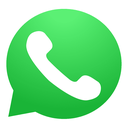
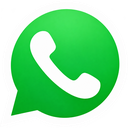
Prévia: novo ícone do WhatsApp e rodapé com ícone do Instagram e @ dos perfis
- Botão flutuante com a imagem do WhatsApp enviada pelo Léo
- Rodapé: "Instagram Lemidi/Leonardo" viram ícone + @lemidimkt e @leonardosilveira_ (todas as páginas)
- Home: sai o "Voltar ao topo"

Claude-Session: https://claude.ai/code/session_01KM6DYd1fGELiNUCgDnHkuW

diff --git a/site/blog/como-escolher-uma-agencia-de-marketing/index.html b/site/blog/como-escolher-uma-agencia-de-marketing/index.html
@@ -634,7 +634,7 @@ document.addEventListener("click",function(e){var a=e.target.closest&&e.target.c
 
 </main>
 <footer id="fim" class="bfoot">
-<div class="note"><a class="flogo" href="/" aria-label="Lemidi, ir para a home"><img src="/assets/img/3871e12d3f6969.png" alt="Lemidi"></a><address class="mono">Rua Mossoró, 332, sala 03 · Londrina, PR</address><div class="nlinks"><a class="mono" style="color:var(--ink);text-decoration:none" href="https://www.instagram.com/lemidimkt/" target="_blank" rel="noopener">Instagram Lemidi</a><a class="mono" style="color:var(--ink);text-decoration:none" href="https://www.instagram.com/leonardosilveira_/" target="_blank" rel="noopener">Instagram Leonardo</a><a class="mono" style="color:var(--ink);text-decoration:none" href="https://wa.me/554384458007?text=Ol%C3%A1%20vim%20pelo%20site%20e%20gostaria%20de%20conhecer%20a%20Lemidi." target="_blank" rel="noopener">Conhecer a Lemidi</a></div></div>
+<div class="note"><a class="flogo" href="/" aria-label="Lemidi, ir para a home"><img src="/assets/img/3871e12d3f6969.png" alt="Lemidi"></a><address class="mono">Rua Mossoró, 332, sala 03 · Londrina, PR</address><div class="nlinks"><a class="mono" style="color:var(--ink);text-decoration:none;display:inline-flex;align-items:center;gap:8px;text-transform:none" href="https://www.instagram.com/lemidimkt/" target="_blank" rel="noopener" aria-label="Instagram da Lemidi (@lemidimkt)"><i aria-hidden="true" style="display:inline-block;width:16px;height:16px;flex:0 0 16px;background:currentColor;-webkit-mask:url(/assets/img/instagram.png) center/contain no-repeat;mask:url(/assets/img/instagram.png) center/contain no-repeat"></i>@lemidimkt</a><a class="mono" style="color:var(--ink);text-decoration:none;display:inline-flex;align-items:center;gap:8px;text-transform:none" href="https://www.instagram.com/leonardosilveira_/" target="_blank" rel="noopener" aria-label="Instagram do Leonardo (@leonardosilveira_)"><i aria-hidden="true" style="display:inline-block;width:16px;height:16px;flex:0 0 16px;background:currentColor;-webkit-mask:url(/assets/img/instagram.png) center/contain no-repeat;mask:url(/assets/img/instagram.png) center/contain no-repeat"></i>@leonardosilveira_</a><a class="mono" style="color:var(--ink);text-decoration:none" href="https://wa.me/554384458007?text=Ol%C3%A1%20vim%20pelo%20site%20e%20gostaria%20de%20conhecer%20a%20Lemidi." target="_blank" rel="noopener">Conhecer a Lemidi</a></div></div>
 <p class="legal mono">LEMIDI INTELIGÊNCIA DIGITAL LTDA · CNPJ 22.135.748/0001-34 · <a href="/politica-de-privacidade/">Política de privacidade</a></p></footer>
 <script>(function(){
 var cv = document.getElementById('preCv'), img = document.getElementById('preImg'); if (!cv || !img) return;

diff --git a/site/blog/como-reduzir-faltas-de-pacientes/index.html b/site/blog/como-reduzir-faltas-de-pacientes/index.html
@@ -641,7 +641,7 @@ document.addEventListener("click",function(e){var a=e.target.closest&&e.target.c
 
 </main>
 <footer id="fim" class="bfoot">
-<div class="note"><a class="flogo" href="/" aria-label="Lemidi, ir para a home"><img src="/assets/img/3871e12d3f6969.png" alt="Lemidi"></a><address class="mono">Rua Mossoró, 332, sala 03 · Londrina, PR</address><div class="nlinks"><a class="mono" style="color:var(--ink);text-decoration:none" href="https://www.instagram.com/lemidimkt/" target="_blank" rel="noopener">Instagram Lemidi</a><a class="mono" style="color:var(--ink);text-decoration:none" href="https://www.instagram.com/leonardosilveira_/" target="_blank" rel="noopener">Instagram Leonardo</a><a class="mono" style="color:var(--ink);text-decoration:none" href="https://wa.me/554384458007?text=Ol%C3%A1%20vim%20pelo%20site%20e%20gostaria%20de%20conhecer%20a%20Lemidi." target="_blank" rel="noopener">Conhecer a Lemidi</a></div></div>
+<div class="note"><a class="flogo" href="/" aria-label="Lemidi, ir para a home"><img src="/assets/img/3871e12d3f6969.png" alt="Lemidi"></a><address class="mono">Rua Mossoró, 332, sala 03 · Londrina, PR</address><div class="nlinks"><a class="mono" style="color:var(--ink);text-decoration:none;display:inline-flex;align-items:center;gap:8px;text-transform:none" href="https://www.instagram.com/lemidimkt/" target="_blank" rel="noopener" aria-label="Instagram da Lemidi (@lemidimkt)"><i aria-hidden="true" style="display:inline-block;width:16px;height:16px;flex:0 0 16px;background:currentColor;-webkit-mask:url(/assets/img/instagram.png) center/contain no-repeat;mask:url(/assets/img/instagram.png) center/contain no-repeat"></i>@lemidimkt</a><a class="mono" style="color:var(--ink);text-decoration:none;display:inline-flex;align-items:center;gap:8px;text-transform:none" href="https://www.instagram.com/leonardosilveira_/" target="_blank" rel="noopener" aria-label="Instagram do Leonardo (@leonardosilveira_)"><i aria-hidden="true" style="display:inline-block;width:16px;height:16px;flex:0 0 16px;background:currentColor;-webkit-mask:url(/assets/img/instagram.png) center/contain no-repeat;mask:url(/assets/img/instagram.png) center/contain no-repeat"></i>@leonardosilveira_</a><a class="mono" style="color:var(--ink);text-decoration:none" href="https://wa.me/554384458007?text=Ol%C3%A1%20vim%20pelo%20site%20e%20gostaria%20de%20conhecer%20a%20Lemidi." target="_blank" rel="noopener">Conhecer a Lemidi</a></div></div>
 <p class="legal mono">LEMIDI INTELIGÊNCIA DIGITAL LTDA · CNPJ 22.135.748/0001-34 · <a href="/politica-de-privacidade/">Política de privacidade</a></p></footer>
 <script>(function(){
 var cv = document.getElementById('preCv'), img = document.getElementById('preImg'); if (!cv || !img) return;

diff --git a/site/blog/como-uma-clinica-odontologica-triplicou-o-faturamento/index.html b/site/blog/como-uma-clinica-odontologica-triplicou-o-faturamento/index.html
@@ -607,7 +607,7 @@ document.addEventListener("click",function(e){var a=e.target.closest&&e.target.c
 
 </main>
 <footer id="fim" class="bfoot">
-<div class="note"><a class="flogo" href="/" aria-label="Lemidi, ir para a home"><img src="/assets/img/3871e12d3f6969.png" alt="Lemidi"></a><address class="mono">Rua Mossoró, 332, sala 03 · Londrina, PR</address><div class="nlinks"><a class="mono" style="color:var(--ink);text-decoration:none" href="https://www.instagram.com/lemidimkt/" target="_blank" rel="noopener">Instagram Lemidi</a><a class="mono" style="color:var(--ink);text-decoration:none" href="https://www.instagram.com/leonardosilveira_/" target="_blank" rel="noopener">Instagram Leonardo</a><a class="mono" style="color:var(--ink);text-decoration:none" href="https://wa.me/554384458007?text=Ol%C3%A1%20vim%20pelo%20site%20e%20gostaria%20de%20conhecer%20a%20Lemidi." target="_blank" rel="noopener">Conhecer a Lemidi</a></div></div>
+<div class="note"><a class="flogo" href="/" aria-label="Lemidi, ir para a home"><img src="/assets/img/3871e12d3f6969.png" alt="Lemidi"></a><address class="mono">Rua Mossoró, 332, sala 03 · Londrina, PR</address><div class="nlinks"><a class="mono" style="color:var(--ink);text-decoration:none;display:inline-flex;align-items:center;gap:8px;text-transform:none" href="https://www.instagram.com/lemidimkt/" target="_blank" rel="noopener" aria-label="Instagram da Lemidi (@lemidimkt)"><i aria-hidden="true" style="display:inline-block;width:16px;height:16px;flex:0 0 16px;background:currentColor;-webkit-mask:url(/assets/img/instagram.png) center/contain no-repeat;mask:url(/assets/img/instagram.png) center/contain no-repeat"></i>@lemidimkt</a><a class="mono" style="color:var(--ink);text-decoration:none;display:inline-flex;align-items:center;gap:8px;text-transform:none" href="https://www.instagram.com/leonardosilveira_/" target="_blank" rel="noopener" aria-label="Instagram do Leonardo (@leonardosilveira_)"><i aria-hidden="true" style="display:inline-block;width:16px;height:16px;flex:0 0 16px;background:currentColor;-webkit-mask:url(/assets/img/instagram.png) center/contain no-repeat;mask:url(/assets/img/instagram.png) center/contain no-repeat"></i>@leonardosilveira_</a><a class="mono" style="color:var(--ink);text-decoration:none" href="https://wa.me/554384458007?text=Ol%C3%A1%20vim%20pelo%20site%20e%20gostaria%20de%20conhecer%20a%20Lemidi." target="_blank" rel="noopener">Conhecer a Lemidi</a></div></div>
 <p class="legal mono">LEMIDI INTELIGÊNCIA DIGITAL LTDA · CNPJ 22.135.748/0001-34 · <a href="/politica-de-privacidade/">Política de privacidade</a></p></footer>
 <script>(function(){
 var cv = document.getElementById('preCv'), img = document.getElementById('preImg'); if (!cv || !img) return;

diff --git a/site/blog/custo-por-lead-baixo-nao-paga-as-contas-da-clinica/index.html b/site/blog/custo-por-lead-baixo-nao-paga-as-contas-da-clinica/index.html
@@ -624,7 +624,7 @@ document.addEventListener("click",function(e){var a=e.target.closest&&e.target.c
 
 </main>
 <footer id="fim" class="bfoot">
-<div class="note"><a class="flogo" href="/" aria-label="Lemidi, ir para a home"><img src="/assets/img/3871e12d3f6969.png" alt="Lemidi"></a><address class="mono">Rua Mossoró, 332, sala 03 · Londrina, PR</address><div class="nlinks"><a class="mono" style="color:var(--ink);text-decoration:none" href="https://www.instagram.com/lemidimkt/" target="_blank" rel="noopener">Instagram Lemidi</a><a class="mono" style="color:var(--ink);text-decoration:none" href="https://www.instagram.com/leonardosilveira_/" target="_blank" rel="noopener">Instagram Leonardo</a><a class="mono" style="color:var(--ink);text-decoration:none" href="https://wa.me/554384458007?text=Ol%C3%A1%20vim%20pelo%20site%20e%20gostaria%20de%20conhecer%20a%20Lemidi." target="_blank" rel="noopener">Conhecer a Lemidi</a></div></div>
+<div class="note"><a class="flogo" href="/" aria-label="Lemidi, ir para a home"><img src="/assets/img/3871e12d3f6969.png" alt="Lemidi"></a><address class="mono">Rua Mossoró, 332, sala 03 · Londrina, PR</address><div class="nlinks"><a class="mono" style="color:var(--ink);text-decoration:none;display:inline-flex;align-items:center;gap:8px;text-transform:none" href="https://www.instagram.com/lemidimkt/" target="_blank" rel="noopener" aria-label="Instagram da Lemidi (@lemidimkt)"><i aria-hidden="true" style="display:inline-block;width:16px;height:16px;flex:0 0 16px;background:currentColor;-webkit-mask:url(/assets/img/instagram.png) center/contain no-repeat;mask:url(/assets/img/instagram.png) center/contain no-repeat"></i>@lemidimkt</a><a class="mono" style="color:var(--ink);text-decoration:none;display:inline-flex;align-items:center;gap:8px;text-transform:none" href="https://www.instagram.com/leonardosilveira_/" target="_blank" rel="noopener" aria-label="Instagram do Leonardo (@leonardosilveira_)"><i aria-hidden="true" style="display:inline-block;width:16px;height:16px;flex:0 0 16px;background:currentColor;-webkit-mask:url(/assets/img/instagram.png) center/contain no-repeat;mask:url(/assets/img/instagram.png) center/contain no-repeat"></i>@leonardosilveira_</a><a class="mono" style="color:var(--ink);text-decoration:none" href="https://wa.me/554384458007?text=Ol%C3%A1%20vim%20pelo%20site%20e%20gostaria%20de%20conhecer%20a%20Lemidi." target="_blank" rel="noopener">Conhecer a Lemidi</a></div></div>
 <p class="legal mono">LEMIDI INTELIGÊNCIA DIGITAL LTDA · CNPJ 22.135.748/0001-34 · <a href="/politica-de-privacidade/">Política de privacidade</a></p></footer>
 <script>(function(){
 var cv = document.getElementById('preCv'), img = document.getElementById('preImg'); if (!cv || !img) return;

diff --git a/site/blog/index.html b/site/blog/index.html
@@ -557,7 +557,7 @@ document.addEventListener("click",function(e){var a=e.target.closest&&e.target.c
 
 </main>
 <footer id="fim" class="bfoot">
-<div class="note"><a class="flogo" href="/" aria-label="Lemidi, ir para a home"><img src="/assets/img/3871e12d3f6969.png" alt="Lemidi"></a><address class="mono">Rua Mossoró, 332, sala 03 · Londrina, PR</address><div class="nlinks"><a class="mono" style="color:var(--ink);text-decoration:none" href="https://www.instagram.com/lemidimkt/" target="_blank" rel="noopener">Instagram Lemidi</a><a class="mono" style="color:var(--ink);text-decoration:none" href="https://www.instagram.com/leonardosilveira_/" target="_blank" rel="noopener">Instagram Leonardo</a><a class="mono" style="color:var(--ink);text-decoration:none" href="https://wa.me/554384458007?text=Ol%C3%A1%20vim%20pelo%20site%20e%20gostaria%20de%20conhecer%20a%20Lemidi." target="_blank" rel="noopener">Conhecer a Lemidi</a></div></div>
+<div class="note"><a class="flogo" href="/" aria-label="Lemidi, ir para a home"><img src="/assets/img/3871e12d3f6969.png" alt="Lemidi"></a><address class="mono">Rua Mossoró, 332, sala 03 · Londrina, PR</address><div class="nlinks"><a class="mono" style="color:var(--ink);text-decoration:none;display:inline-flex;align-items:center;gap:8px;text-transform:none" href="https://www.instagram.com/lemidimkt/" target="_blank" rel="noopener" aria-label="Instagram da Lemidi (@lemidimkt)"><i aria-hidden="true" style="display:inline-block;width:16px;height:16px;flex:0 0 16px;background:currentColor;-webkit-mask:url(/assets/img/instagram.png) center/contain no-repeat;mask:url(/assets/img/instagram.png) center/contain no-repeat"></i>@lemidimkt</a><a class="mono" style="color:var(--ink);text-decoration:none;display:inline-flex;align-items:center;gap:8px;text-transform:none" href="https://www.instagram.com/leonardosilveira_/" target="_blank" rel="noopener" aria-label="Instagram do Leonardo (@leonardosilveira_)"><i aria-hidden="true" style="display:inline-block;width:16px;height:16px;flex:0 0 16px;background:currentColor;-webkit-mask:url(/assets/img/instagram.png) center/contain no-repeat;mask:url(/assets/img/instagram.png) center/contain no-repeat"></i>@leonardosilveira_</a><a class="mono" style="color:var(--ink);text-decoration:none" href="https://wa.me/554384458007?text=Ol%C3%A1%20vim%20pelo%20site%20e%20gostaria%20de%20conhecer%20a%20Lemidi." target="_blank" rel="noopener">Conhecer a Lemidi</a></div></div>
 <p class="legal mono">LEMIDI INTELIGÊNCIA DIGITAL LTDA · CNPJ 22.135.748/0001-34 · <a href="/politica-de-privacidade/">Política de privacidade</a></p></footer>
 <script>(function(){
 var cv = document.getElementById('preCv'), img = document.getElementById('preImg'); if (!cv || !img) return;

diff --git a/site/blog/lead-ou-paciente-agendado-entenda-a-diferenca/index.html b/site/blog/lead-ou-paciente-agendado-entenda-a-diferenca/index.html
@@ -640,7 +640,7 @@ document.addEventListener("click",function(e){var a=e.target.closest&&e.target.c
 
 </main>
 <footer id="fim" class="bfoot">
-<div class="note"><a class="flogo" href="/" aria-label="Lemidi, ir para a home"><img src="/assets/img/3871e12d3f6969.png" alt="Lemidi"></a><address class="mono">Rua Mossoró, 332, sala 03 · Londrina, PR</address><div class="nlinks"><a class="mono" style="color:var(--ink);text-decoration:none" href="https://www.instagram.com/lemidimkt/" target="_blank" rel="noopener">Instagram Lemidi</a><a class="mono" style="color:var(--ink);text-decoration:none" href="https://www.instagram.com/leonardosilveira_/" target="_blank" rel="noopener">Instagram Leonardo</a><a class="mono" style="color:var(--ink);text-decoration:none" href="https://wa.me/554384458007?text=Ol%C3%A1%20vim%20pelo%20site%20e%20gostaria%20de%20conhecer%20a%20Lemidi." target="_blank" rel="noopener">Conhecer a Lemidi</a></div></div>
+<div class="note"><a class="flogo" href="/" aria-label="Lemidi, ir para a home"><img src="/assets/img/3871e12d3f6969.png" alt="Lemidi"></a><address class="mono">Rua Mossoró, 332, sala 03 · Londrina, PR</address><div class="nlinks"><a class="mono" style="color:var(--ink);text-decoration:none;display:inline-flex;align-items:center;gap:8px;text-transform:none" href="https://www.instagram.com/lemidimkt/" target="_blank" rel="noopener" aria-label="Instagram da Lemidi (@lemidimkt)"><i aria-hidden="true" style="display:inline-block;width:16px;height:16px;flex:0 0 16px;background:currentColor;-webkit-mask:url(/assets/img/instagram.png) center/contain no-repeat;mask:url(/assets/img/instagram.png) center/contain no-repeat"></i>@lemidimkt</a><a class="mono" style="color:var(--ink);text-decoration:none;display:inline-flex;align-items:center;gap:8px;text-transform:none" href="https://www.instagram.com/leonardosilveira_/" target="_blank" rel="noopener" aria-label="Instagram do Leonardo (@leonardosilveira_)"><i aria-hidden="true" style="display:inline-block;width:16px;height:16px;flex:0 0 16px;background:currentColor;-webkit-mask:url(/assets/img/instagram.png) center/contain no-repeat;mask:url(/assets/img/instagram.png) center/contain no-repeat"></i>@leonardosilveira_</a><a class="mono" style="color:var(--ink);text-decoration:none" href="https://wa.me/554384458007?text=Ol%C3%A1%20vim%20pelo%20site%20e%20gostaria%20de%20conhecer%20a%20Lemidi." target="_blank" rel="noopener">Conhecer a Lemidi</a></div></div>
 <p class="legal mono">LEMIDI INTELIGÊNCIA DIGITAL LTDA · CNPJ 22.135.748/0001-34 · <a href="/politica-de-privacidade/">Política de privacidade</a></p></footer>
 <script>(function(){
 var cv = document.getElementById('preCv'), img = document.getElementById('preImg'); if (!cv || !img) return;

diff --git a/site/blog/loja-de-iphone-londrina-do-zero-a-mais-vendida/index.html b/site/blog/loja-de-iphone-londrina-do-zero-a-mais-vendida/index.html
@@ -607,7 +607,7 @@ document.addEventListener("click",function(e){var a=e.target.closest&&e.target.c
 
 </main>
 <footer id="fim" class="bfoot">
-<div class="note"><a class="flogo" href="/" aria-label="Lemidi, ir para a home"><img src="/assets/img/3871e12d3f6969.png" alt="Lemidi"></a><address class="mono">Rua Mossoró, 332, sala 03 · Londrina, PR</address><div class="nlinks"><a class="mono" style="color:var(--ink);text-decoration:none" href="https://www.instagram.com/lemidimkt/" target="_blank" rel="noopener">Instagram Lemidi</a><a class="mono" style="color:var(--ink);text-decoration:none" href="https://www.instagram.com/leonardosilveira_/" target="_blank" rel="noopener">Instagram Leonardo</a><a class="mono" style="color:var(--ink);text-decoration:none" href="https://wa.me/554384458007?text=Ol%C3%A1%20vim%20pelo%20site%20e%20gostaria%20de%20conhecer%20a%20Lemidi." target="_blank" rel="noopener">Conhecer a Lemidi</a></div></div>
+<div class="note"><a class="flogo" href="/" aria-label="Lemidi, ir para a home"><img src="/assets/img/3871e12d3f6969.png" alt="Lemidi"></a><address class="mono">Rua Mossoró, 332, sala 03 · Londrina, PR</address><div class="nlinks"><a class="mono" style="color:var(--ink);text-decoration:none;display:inline-flex;align-items:center;gap:8px;text-transform:none" href="https://www.instagram.com/lemidimkt/" target="_blank" rel="noopener" aria-label="Instagram da Lemidi (@lemidimkt)"><i aria-hidden="true" style="display:inline-block;width:16px;height:16px;flex:0 0 16px;background:currentColor;-webkit-mask:url(/assets/img/instagram.png) center/contain no-repeat;mask:url(/assets/img/instagram.png) center/contain no-repeat"></i>@lemidimkt</a><a class="mono" style="color:var(--ink);text-decoration:none;display:inline-flex;align-items:center;gap:8px;text-transform:none" href="https://www.instagram.com/leonardosilveira_/" target="_blank" rel="noopener" aria-label="Instagram do Leonardo (@leonardosilveira_)"><i aria-hidden="true" style="display:inline-block;width:16px;height:16px;flex:0 0 16px;background:currentColor;-webkit-mask:url(/assets/img/instagram.png) center/contain no-repeat;mask:url(/assets/img/instagram.png) center/contain no-repeat"></i>@leonardosilveira_</a><a class="mono" style="color:var(--ink);text-decoration:none" href="https://wa.me/554384458007?text=Ol%C3%A1%20vim%20pelo%20site%20e%20gostaria%20de%20conhecer%20a%20Lemidi." target="_blank" rel="noopener">Conhecer a Lemidi</a></div></div>
 <p class="legal mono">LEMIDI INTELIGÊNCIA DIGITAL LTDA · CNPJ 22.135.748/0001-34 · <a href="/politica-de-privacidade/">Política de privacidade</a></p></footer>
 <script>(function(){
 var cv = document.getElementById('preCv'), img = document.getElementById('preImg'); if (!cv || !img) return;

diff --git a/site/blog/mensagem-de-confirmacao-de-consulta-odontologica/index.html b/site/blog/mensagem-de-confirmacao-de-consulta-odontologica/index.html
@@ -642,7 +642,7 @@ document.addEventListener("click",function(e){var a=e.target.closest&&e.target.c
 
 </main>
 <footer id="fim" class="bfoot">
-<div class="note"><a class="flogo" href="/" aria-label="Lemidi, ir para a home"><img src="/assets/img/3871e12d3f6969.png" alt="Lemidi"></a><address class="mono">Rua Mossoró, 332, sala 03 · Londrina, PR</address><div class="nlinks"><a class="mono" style="color:var(--ink);text-decoration:none" href="https://www.instagram.com/lemidimkt/" target="_blank" rel="noopener">Instagram Lemidi</a><a class="mono" style="color:var(--ink);text-decoration:none" href="https://www.instagram.com/leonardosilveira_/" target="_blank" rel="noopener">Instagram Leonardo</a><a class="mono" style="color:var(--ink);text-decoration:none" href="https://wa.me/554384458007?text=Ol%C3%A1%20vim%20pelo%20site%20e%20gostaria%20de%20conhecer%20a%20Lemidi." target="_blank" rel="noopener">Conhecer a Lemidi</a></div></div>
+<div class="note"><a class="flogo" href="/" aria-label="Lemidi, ir para a home"><img src="/assets/img/3871e12d3f6969.png" alt="Lemidi"></a><address class="mono">Rua Mossoró, 332, sala 03 · Londrina, PR</address><div class="nlinks"><a class="mono" style="color:var(--ink);text-decoration:none;display:inline-flex;align-items:center;gap:8px;text-transform:none" href="https://www.instagram.com/lemidimkt/" target="_blank" rel="noopener" aria-label="Instagram da Lemidi (@lemidimkt)"><i aria-hidden="true" style="display:inline-block;width:16px;height:16px;flex:0 0 16px;background:currentColor;-webkit-mask:url(/assets/img/instagram.png) center/contain no-repeat;mask:url(/assets/img/instagram.png) center/contain no-repeat"></i>@lemidimkt</a><a class="mono" style="color:var(--ink);text-decoration:none;display:inline-flex;align-items:center;gap:8px;text-transform:none" href="https://www.instagram.com/leonardosilveira_/" target="_blank" rel="noopener" aria-label="Instagram do Leonardo (@leonardosilveira_)"><i aria-hidden="true" style="display:inline-block;width:16px;height:16px;flex:0 0 16px;background:currentColor;-webkit-mask:url(/assets/img/instagram.png) center/contain no-repeat;mask:url(/assets/img/instagram.png) center/contain no-repeat"></i>@leonardosilveira_</a><a class="mono" style="color:var(--ink);text-decoration:none" href="https://wa.me/554384458007?text=Ol%C3%A1%20vim%20pelo%20site%20e%20gostaria%20de%20conhecer%20a%20Lemidi." target="_blank" rel="noopener">Conhecer a Lemidi</a></div></div>
 <p class="legal mono">LEMIDI INTELIGÊNCIA DIGITAL LTDA · CNPJ 22.135.748/0001-34 · <a href="/politica-de-privacidade/">Política de privacidade</a></p></footer>
 <script>(function(){
 var cv = document.getElementById('preCv'), img = document.getElementById('preImg'); if (!cv || !img) return;

diff --git a/site/blog/morada-shangri-la-rede-social-de-bairro-lancamento-imobiliario/index.html b/site/blog/morada-shangri-la-rede-social-de-bairro-lancamento-imobiliario/index.html
@@ -607,7 +607,7 @@ document.addEventListener("click",function(e){var a=e.target.closest&&e.target.c
 
 </main>
 <footer id="fim" class="bfoot">
-<div class="note"><a class="flogo" href="/" aria-label="Lemidi, ir para a home"><img src="/assets/img/3871e12d3f6969.png" alt="Lemidi"></a><address class="mono">Rua Mossoró, 332, sala 03 · Londrina, PR</address><div class="nlinks"><a class="mono" style="color:var(--ink);text-decoration:none" href="https://www.instagram.com/lemidimkt/" target="_blank" rel="noopener">Instagram Lemidi</a><a class="mono" style="color:var(--ink);text-decoration:none" href="https://www.instagram.com/leonardosilveira_/" target="_blank" rel="noopener">Instagram Leonardo</a><a class="mono" style="color:var(--ink);text-decoration:none" href="https://wa.me/554384458007?text=Ol%C3%A1%20vim%20pelo%20site%20e%20gostaria%20de%20conhecer%20a%20Lemidi." target="_blank" rel="noopener">Conhecer a Lemidi</a></div></div>
+<div class="note"><a class="flogo" href="/" aria-label="Lemidi, ir para a home"><img src="/assets/img/3871e12d3f6969.png" alt="Lemidi"></a><address class="mono">Rua Mossoró, 332, sala 03 · Londrina, PR</address><div class="nlinks"><a class="mono" style="color:var(--ink);text-decoration:none;display:inline-flex;align-items:center;gap:8px;text-transform:none" href="https://www.instagram.com/lemidimkt/" target="_blank" rel="noopener" aria-label="Instagram da Lemidi (@lemidimkt)"><i aria-hidden="true" style="display:inline-block;width:16px;height:16px;flex:0 0 16px;background:currentColor;-webkit-mask:url(/assets/img/instagram.png) center/contain no-repeat;mask:url(/assets/img/instagram.png) center/contain no-repeat"></i>@lemidimkt</a><a class="mono" style="color:var(--ink);text-decoration:none;display:inline-flex;align-items:center;gap:8px;text-transform:none" href="https://www.instagram.com/leonardosilveira_/" target="_blank" rel="noopener" aria-label="Instagram do Leonardo (@leonardosilveira_)"><i aria-hidden="true" style="display:inline-block;width:16px;height:16px;flex:0 0 16px;background:currentColor;-webkit-mask:url(/assets/img/instagram.png) center/contain no-repeat;mask:url(/assets/img/instagram.png) center/contain no-repeat"></i>@leonardosilveira_</a><a class="mono" style="color:var(--ink);text-decoration:none" href="https://wa.me/554384458007?text=Ol%C3%A1%20vim%20pelo%20site%20e%20gostaria%20de%20conhecer%20a%20Lemidi." target="_blank" rel="noopener">Conhecer a Lemidi</a></div></div>
 <p class="legal mono">LEMIDI INTELIGÊNCIA DIGITAL LTDA · CNPJ 22.135.748/0001-34 · <a href="/politica-de-privacidade/">Política de privacidade</a></p></footer>
 <script>(function(){
 var cv = document.getElementById('preCv'), img = document.getElementById('preImg'); if (!cv || !img) return;

diff --git a/site/blog/one-tower-vendido-em-60-dias/index.html b/site/blog/one-tower-vendido-em-60-dias/index.html
@@ -607,7 +607,7 @@ document.addEventListener("click",function(e){var a=e.target.closest&&e.target.c
 
 </main>
 <footer id="fim" class="bfoot">
-<div class="note"><a class="flogo" href="/" aria-label="Lemidi, ir para a home"><img src="/assets/img/3871e12d3f6969.png" alt="Lemidi"></a><address class="mono">Rua Mossoró, 332, sala 03 · Londrina, PR</address><div class="nlinks"><a class="mono" style="color:var(--ink);text-decoration:none" href="https://www.instagram.com/lemidimkt/" target="_blank" rel="noopener">Instagram Lemidi</a><a class="mono" style="color:var(--ink);text-decoration:none" href="https://www.instagram.com/leonardosilveira_/" target="_blank" rel="noopener">Instagram Leonardo</a><a class="mono" style="color:var(--ink);text-decoration:none" href="https://wa.me/554384458007?text=Ol%C3%A1%20vim%20pelo%20site%20e%20gostaria%20de%20conhecer%20a%20Lemidi." target="_blank" rel="noopener">Conhecer a Lemidi</a></div></div>
+<div class="note"><a class="flogo" href="/" aria-label="Lemidi, ir para a home"><img src="/assets/img/3871e12d3f6969.png" alt="Lemidi"></a><address class="mono">Rua Mossoró, 332, sala 03 · Londrina, PR</address><div class="nlinks"><a class="mono" style="color:var(--ink);text-decoration:none;display:inline-flex;align-items:center;gap:8px;text-transform:none" href="https://www.instagram.com/lemidimkt/" target="_blank" rel="noopener" aria-label="Instagram da Lemidi (@lemidimkt)"><i aria-hidden="true" style="display:inline-block;width:16px;height:16px;flex:0 0 16px;background:currentColor;-webkit-mask:url(/assets/img/instagram.png) center/contain no-repeat;mask:url(/assets/img/instagram.png) center/contain no-repeat"></i>@lemidimkt</a><a class="mono" style="color:var(--ink);text-decoration:none;display:inline-flex;align-items:center;gap:8px;text-transform:none" href="https://www.instagram.com/leonardosilveira_/" target="_blank" rel="noopener" aria-label="Instagram do Leonardo (@leonardosilveira_)"><i aria-hidden="true" style="display:inline-block;width:16px;height:16px;flex:0 0 16px;background:currentColor;-webkit-mask:url(/assets/img/instagram.png) center/contain no-repeat;mask:url(/assets/img/instagram.png) center/contain no-repeat"></i>@leonardosilveira_</a><a class="mono" style="color:var(--ink);text-decoration:none" href="https://wa.me/554384458007?text=Ol%C3%A1%20vim%20pelo%20site%20e%20gostaria%20de%20conhecer%20a%20Lemidi." target="_blank" rel="noopener">Conhecer a Lemidi</a></div></div>
 <p class="legal mono">LEMIDI INTELIGÊNCIA DIGITAL LTDA · CNPJ 22.135.748/0001-34 · <a href="/politica-de-privacidade/">Política de privacidade</a></p></footer>
 <script>(function(){
 var cv = document.getElementById('preCv'), img = document.getElementById('preImg'); if (!cv || !img) return;

diff --git a/site/blog/quando-pausar-um-anuncio-de-clinica-ou-incorporadora/index.html b/site/blog/quando-pausar-um-anuncio-de-clinica-ou-incorporadora/index.html
@@ -644,7 +644,7 @@ document.addEventListener("click",function(e){var a=e.target.closest&&e.target.c
 
 </main>
 <footer id="fim" class="bfoot">
-<div class="note"><a class="flogo" href="/" aria-label="Lemidi, ir para a home"><img src="/assets/img/3871e12d3f6969.png" alt="Lemidi"></a><address class="mono">Rua Mossoró, 332, sala 03 · Londrina, PR</address><div class="nlinks"><a class="mono" style="color:var(--ink);text-decoration:none" href="https://www.instagram.com/lemidimkt/" target="_blank" rel="noopener">Instagram Lemidi</a><a class="mono" style="color:var(--ink);text-decoration:none" href="https://www.instagram.com/leonardosilveira_/" target="_blank" rel="noopener">Instagram Leonardo</a><a class="mono" style="color:var(--ink);text-decoration:none" href="https://wa.me/554384458007?text=Ol%C3%A1%20vim%20pelo%20site%20e%20gostaria%20de%20conhecer%20a%20Lemidi." target="_blank" rel="noopener">Conhecer a Lemidi</a></div></div>
+<div class="note"><a class="flogo" href="/" aria-label="Lemidi, ir para a home"><img src="/assets/img/3871e12d3f6969.png" alt="Lemidi"></a><address class="mono">Rua Mossoró, 332, sala 03 · Londrina, PR</address><div class="nlinks"><a class="mono" style="color:var(--ink);text-decoration:none;display:inline-flex;align-items:center;gap:8px;text-transform:none" href="https://www.instagram.com/lemidimkt/" target="_blank" rel="noopener" aria-label="Instagram da Lemidi (@lemidimkt)"><i aria-hidden="true" style="display:inline-block;width:16px;height:16px;flex:0 0 16px;background:currentColor;-webkit-mask:url(/assets/img/instagram.png) center/contain no-repeat;mask:url(/assets/img/instagram.png) center/contain no-repeat"></i>@lemidimkt</a><a class="mono" style="color:var(--ink);text-decoration:none;display:inline-flex;align-items:center;gap:8px;text-transform:none" href="https://www.instagram.com/leonardosilveira_/" target="_blank" rel="noopener" aria-label="Instagram do Leonardo (@leonardosilveira_)"><i aria-hidden="true" style="display:inline-block;width:16px;height:16px;flex:0 0 16px;background:currentColor;-webkit-mask:url(/assets/img/instagram.png) center/contain no-repeat;mask:url(/assets/img/instagram.png) center/contain no-repeat"></i>@leonardosilveira_</a><a class="mono" style="color:var(--ink);text-decoration:none" href="https://wa.me/554384458007?text=Ol%C3%A1%20vim%20pelo%20site%20e%20gostaria%20de%20conhecer%20a%20Lemidi." target="_blank" rel="noopener">Conhecer a Lemidi</a></div></div>
 <p class="legal mono">LEMIDI INTELIGÊNCIA DIGITAL LTDA · CNPJ 22.135.748/0001-34 · <a href="/politica-de-privacidade/">Política de privacidade</a></p></footer>
 <script>(function(){
 var cv = document.getElementById('preCv'), img = document.getElementById('preImg'); if (!cv || !img) return;

diff --git a/site/odontologia/index.html b/site/odontologia/index.html
@@ -539,7 +539,7 @@ document.addEventListener("click",function(e){var a=e.target.closest&&e.target.c
 <a class="btn xl" data-mag href="https://wa.me/554384458007?text=Ol%C3%A1%2C%20vim%20pelo%20site%2C%20na%20p%C3%A1gina%20de%20odontologia%2C%20e%20gostaria%20de%20conhecer%20a%20Lemidi." target="_blank" rel="noopener">Conhecer a Lemidi</a>
 <a class="btn ghost xl" data-mag href="/calculadora/">Calcular meu investimento</a>
 </div>
-<div class="note"><a class="flogo" href="/" aria-label="Lemidi, ir para a home"><img src="/assets/img/3871e12d3f6969.png" alt="Lemidi"></a><address class="mono">Rua Mossoró, 332, sala 03 · Londrina, PR</address><div class="nlinks"><a class="mono" style="color:var(--ink);text-decoration:none" href="https://www.instagram.com/lemidimkt/" target="_blank" rel="noopener">Instagram Lemidi</a><a class="mono" style="color:var(--ink);text-decoration:none" href="https://www.instagram.com/leonardosilveira_/" target="_blank" rel="noopener">Instagram Leonardo</a><a class="mono" style="color:var(--ink);text-decoration:none" href="/">Ver a home</a></div></div>
+<div class="note"><a class="flogo" href="/" aria-label="Lemidi, ir para a home"><img src="/assets/img/3871e12d3f6969.png" alt="Lemidi"></a><address class="mono">Rua Mossoró, 332, sala 03 · Londrina, PR</address><div class="nlinks"><a class="mono" style="color:var(--ink);text-decoration:none;display:inline-flex;align-items:center;gap:8px;text-transform:none" href="https://www.instagram.com/lemidimkt/" target="_blank" rel="noopener" aria-label="Instagram da Lemidi (@lemidimkt)"><i aria-hidden="true" style="display:inline-block;width:16px;height:16px;flex:0 0 16px;background:currentColor;-webkit-mask:url(/assets/img/instagram.png) center/contain no-repeat;mask:url(/assets/img/instagram.png) center/contain no-repeat"></i>@lemidimkt</a><a class="mono" style="color:var(--ink);text-decoration:none;display:inline-flex;align-items:center;gap:8px;text-transform:none" href="https://www.instagram.com/leonardosilveira_/" target="_blank" rel="noopener" aria-label="Instagram do Leonardo (@leonardosilveira_)"><i aria-hidden="true" style="display:inline-block;width:16px;height:16px;flex:0 0 16px;background:currentColor;-webkit-mask:url(/assets/img/instagram.png) center/contain no-repeat;mask:url(/assets/img/instagram.png) center/contain no-repeat"></i>@leonardosilveira_</a><a class="mono" style="color:var(--ink);text-decoration:none" href="/">Ver a home</a></div></div>
 <p class="legal mono">LEMIDI INTELIGÊNCIA DIGITAL LTDA · CNPJ 22.135.748/0001-34 · <a href="/politica-de-privacidade/">Política de privacidade</a></p></footer>
 
 <script>(function(){
